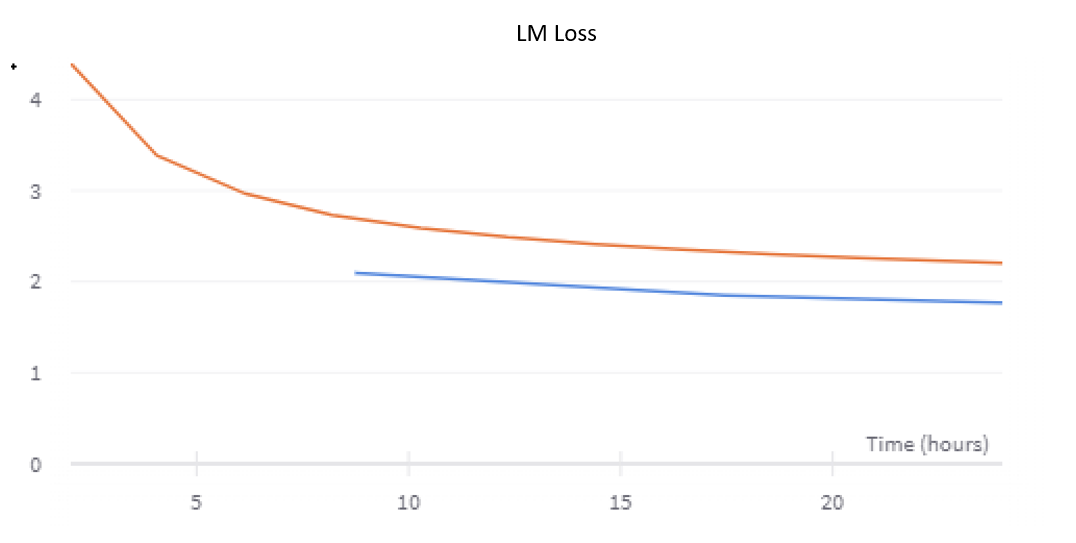
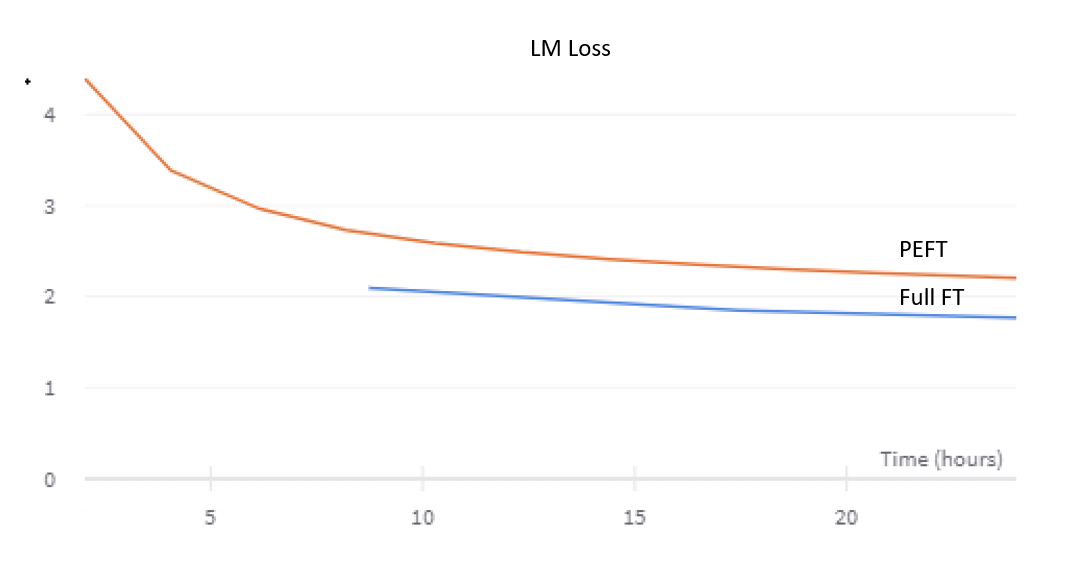
Update about.md

diff --git a/_posts/2023-05-04-peft-vs-full-finetuning.md b/_posts/2023-05-04-peft-vs-full-finetuning.md
@@ -17,6 +17,6 @@ For context, my research problem is to adapt english LLMs to other languages. I 
 ## Results
 ![Loss plots for finetuning vs peft](/images/peft-vs-finetuning.png)
 
-Here, we can see that full finetuning (blue) achieves a better loss than PEFT given the same compute budget! Seems like finetuning can - ironically - be more efficient that PEFT. Interesting!
+Here, we can see that full finetuning (blue) achieves a better loss than PEFT (orange) given the same compute budget! Seems like finetuning can - ironically - be more efficient that PEFT. Interesting!
 
 From my colleagues' experiments, turns out PEFT only speeds up 25% compared to finetuning despite training <1% of parameters.
